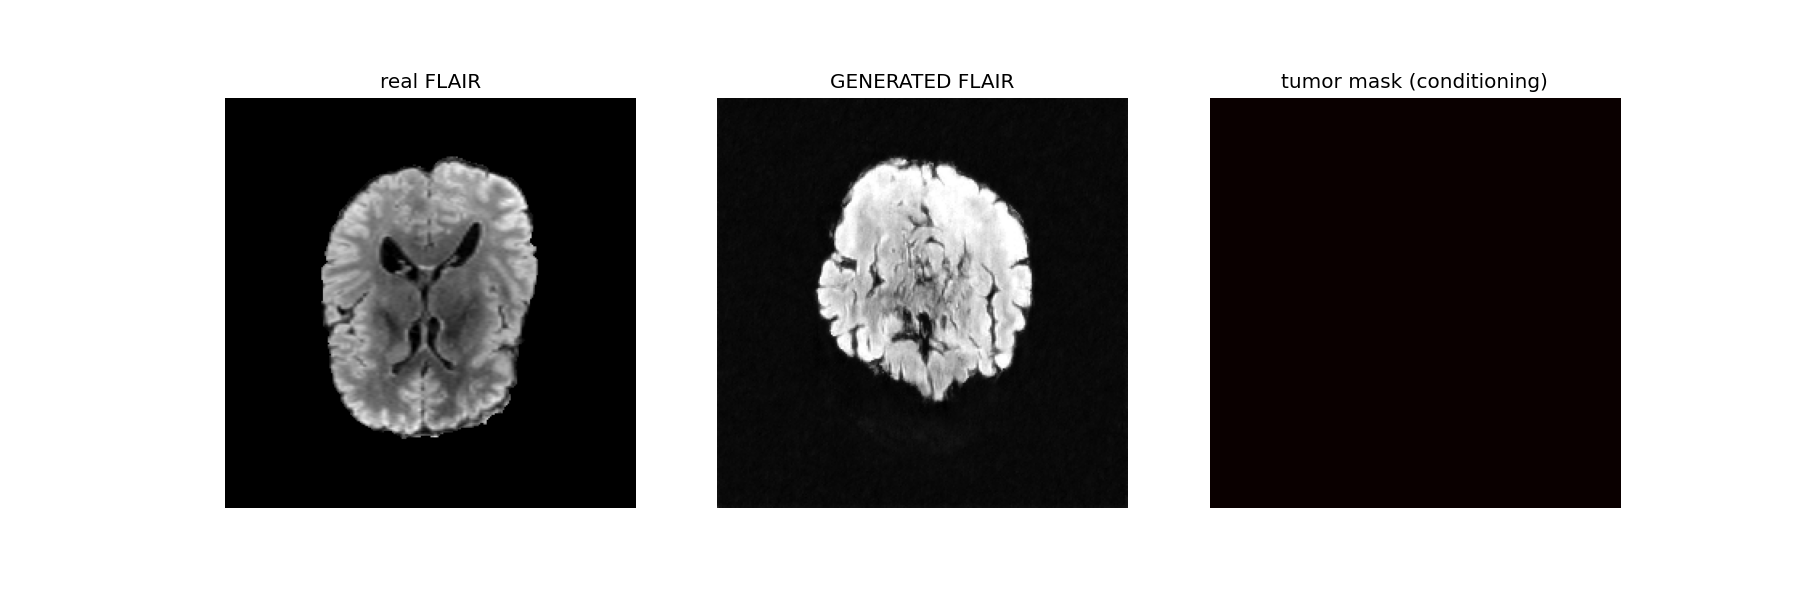
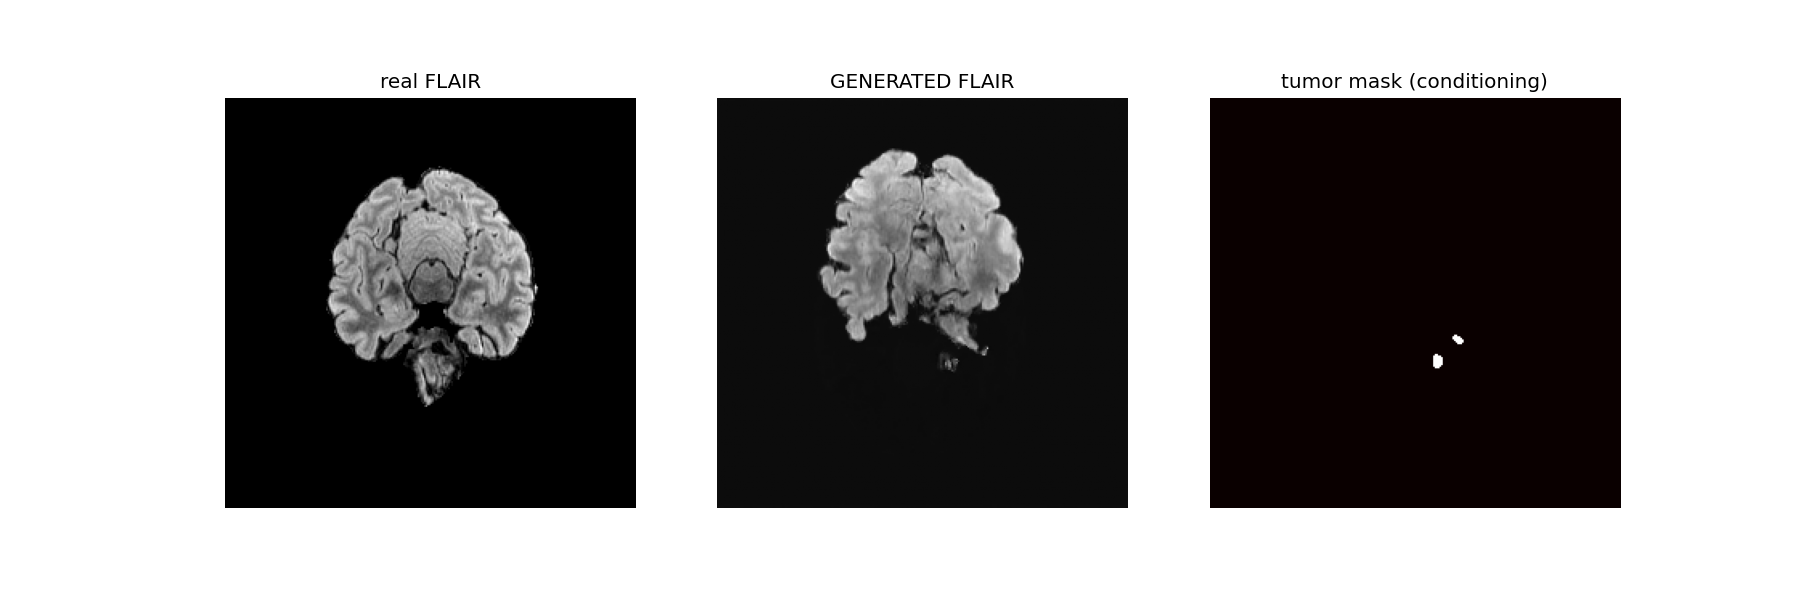
Testing on 150 patients

Changed region(s): [[0.1556, 0.27, 0.3111, 0.75], [0.4356, 0.24, 0.5911, 0.69]]

diff --git a/scripts/03_preprocess.py b/scripts/03_preprocess.py
@@ -9,7 +9,7 @@ ATLAS_DIR = "data/processed/atlas_in_brats"
 OUT_DIR   = "data/processed/slices"
 LOBES = ["frontal", "parietal", "temporal", "occipital", "cerebellum", "insula"]
 
-N_PATIENTS       = 40          # subset to start; raise later
+N_PATIENTS       = 150          # subset to start; raise later
 TARGET_SIZE      = 256         # pad 240 -> 256
 MIN_BRAIN_VOXELS = 1000        # skip slices with less brain than this
 SPLIT            = (0.7, 0.15, 0.15)   # train / val / test, by PATIENT